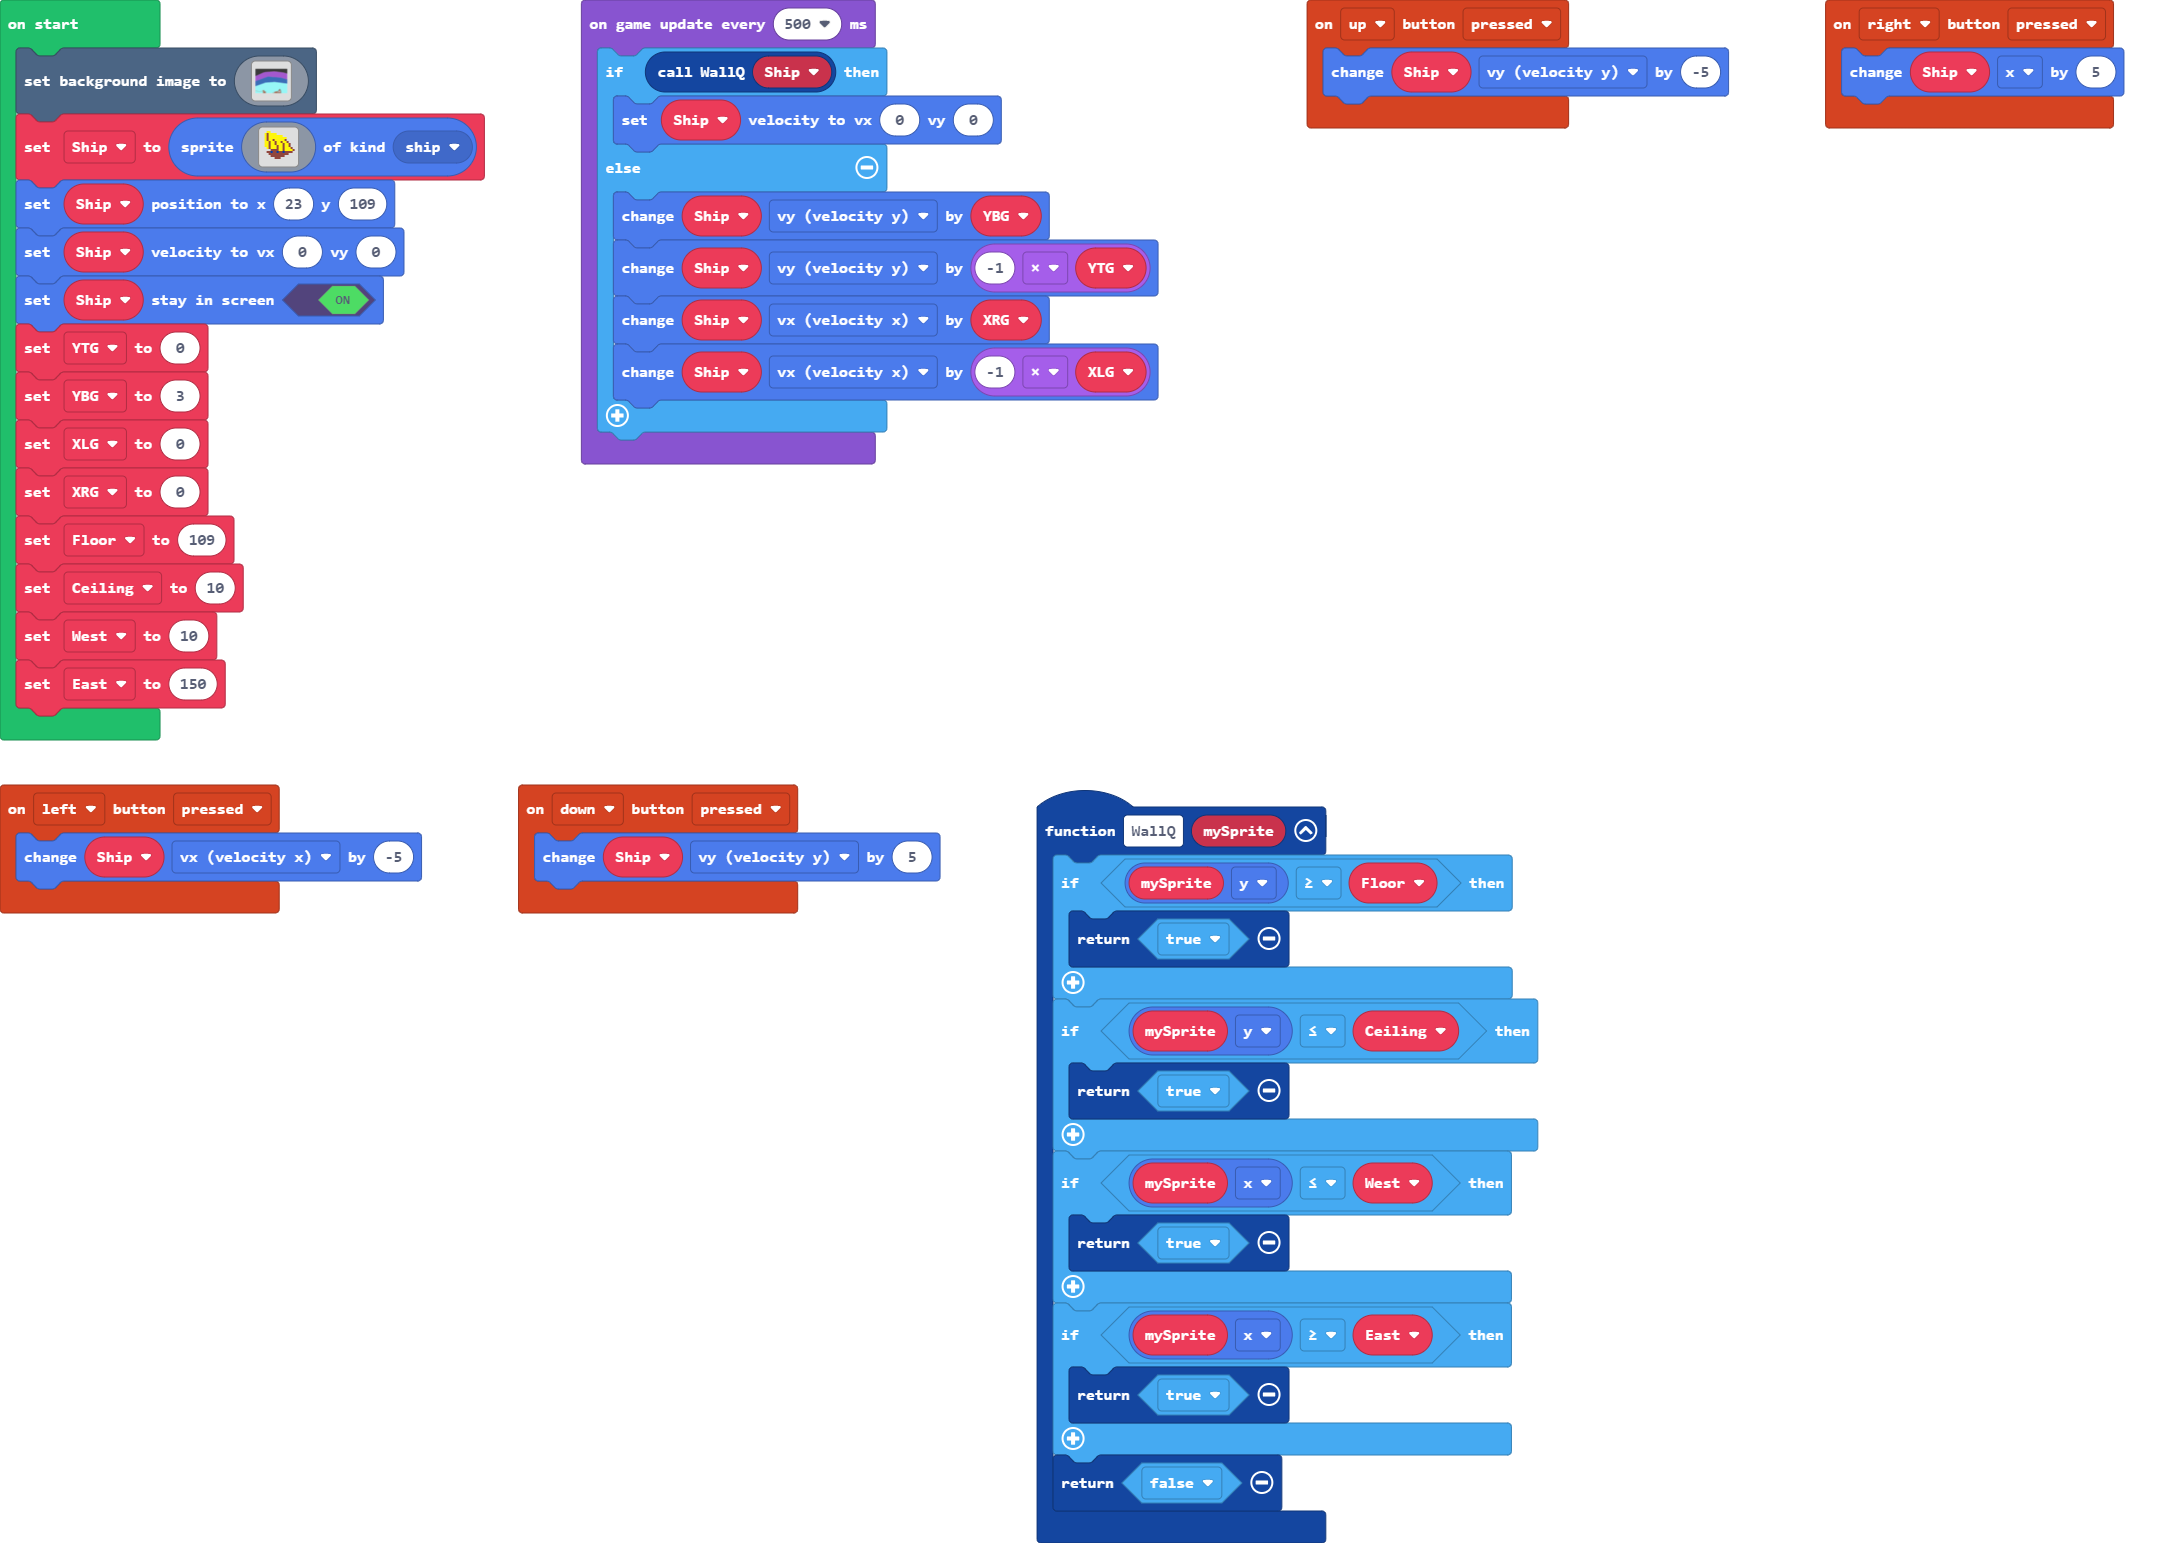
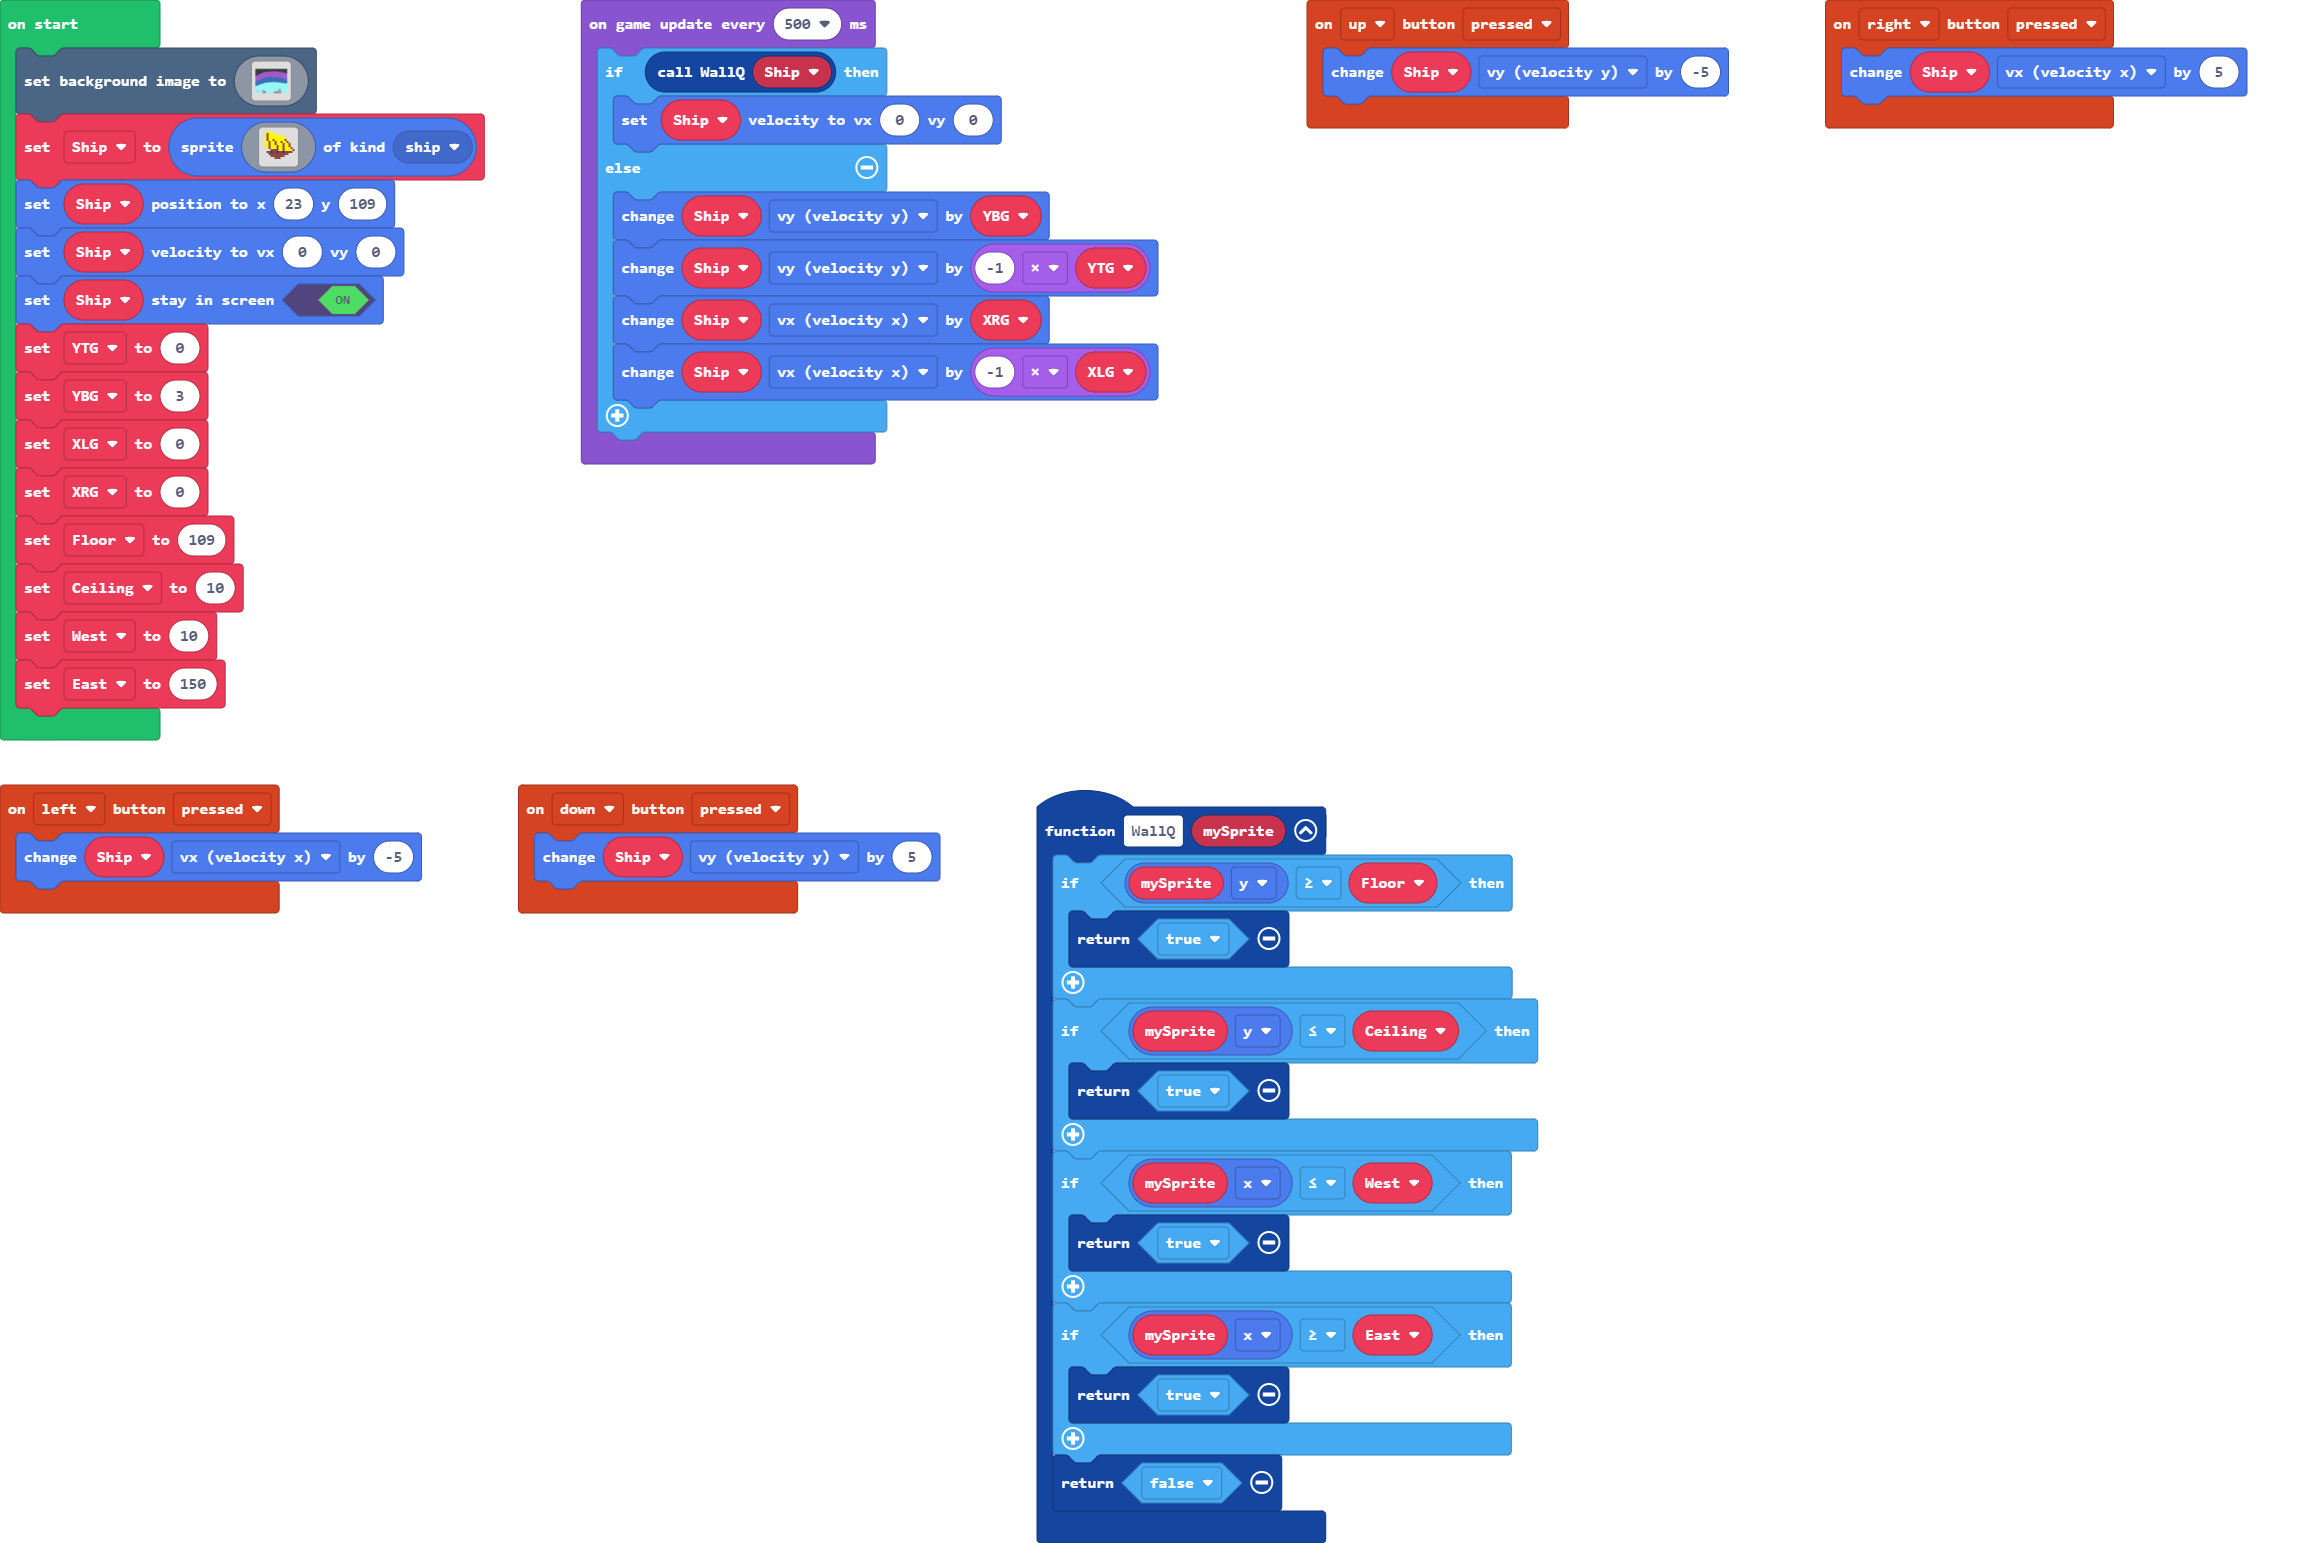
Update main.blocks, main.ts

Changed region(s): [[0.0, 0.4977, 0.7188, 1.0], [0.0, 0.0, 0.5312, 0.4666], [0.5625, 0.0, 1.0, 0.0933]]

diff --git a/main.ts b/main.ts
@@ -8,7 +8,7 @@ controller.left.onEvent(ControllerButtonEvent.Pressed, function () {
     Ship.vx += -5
 })
 controller.right.onEvent(ControllerButtonEvent.Pressed, function () {
-    Ship.x += 5
+    Ship.vx += 5
 })
 function WallQ (mySprite: Sprite) {
     if (mySprite.y >= Floor) {
@@ -38,22 +38,22 @@ scene.setBackgroundImage(img`
     ffffffffffffffffffffffffffffffffffffffffffffffffffffffffffffffffffffffffffffffffffffffffffffffffffffffffffffffffffffffffffffffffffffffffffffffffffffffffffffffff
     ffffffffffffffffffffffffffffffffffffffffffffffffffffffffffffffffffffffffffffffffffffffffffffffffffffffffffffffffffffffffffffffffffffffffffffffffffffffffffffffff
     ffffffffffffffffffffffffffffffffffffffffffffffffffffffffffffffffffffffffffffffffffffffffffffffffffffffffffffffffffffffffffffffffffffffffffffffffffffffffffffffff
[2 lines of base64/hex data omitted]
+    fffffffffffffffffffffffffffffffffffffffffffffffffffffffffffffffffffffffffffffffffffffffffffffffffffffffffffff1ffffffffffffffffffffffffffffffffffffffffffffffffff
     ffffffffffffffffffffffffffffffffffffffffffffffffffffffffffffffffffffffffffffffffffffffffffffffffffffffffffffffffffffffffffffffffffffffffffffffffffffffffffffffff
+    fffffffffffffffffffffffffffffffffffffffffffffffffffffffffffffffffffffffffffffffffffffffffffffffffffffffffffffffffffffffffffffffffff1ffffffffffffffffffffffffffff
     ffffffffffffffffffffffffffffffffffffffffffffffffffffffffffffffffffffffffffffffffffffffffffffffffffffffffffffffffffffffffffffffffffffffffffffffffffffffffffffffff
-    ffffffffffffffffffffffffffffffffffffffffffffffffffffffffffffffffffffffffffffffffffffffffffffffffffffffffffffffffffffffffffffffffffffffffffffffffffffffffffffffff
-    ffffffffffffffffffffffffffffffffffffffffffffffffffffffffffffffffffffffffffffffffffffffffffffffffffffffffffffffffffffffffffffffffffffffffffffffffffffffffffffffff
-    ffffffffffffffffffffffffffffffffffffffffffffffffffffffffffffffffffffffffffffffffffffffffffffffffffffffffffffffffffffffffffffffffffffffffffffffffffffffffffffffff
-    ffffffffffffffffffffffffffffffffffffffffffffffffffffffffffffffffffffffffffffffffffffffffffffffffffffffffffffffffffffffffffffffffffffffffffffffffffffffffffffffff
-    ffffffffffffffffffffffffffffffffffffffffffffffffffffffffffffffffffffffffffffffffffffffffffffffffffffffffffffffffffffffffffffffffffffffffffffffffffffffffffffffff
-    ffffffffffffffffffffffffffffffffffffffffffffffffffffffffffffffffffffffffffffffffffffffffffffffffffffffffffffffffffffffffffffffffffffffffffffffffffffffffffffffff
+    ffffffffffffffffffffffffffffffffffffffffffffffffffffffffffffffffffffffffffffffffffffffffffffffffffffffffffffffffffffffffffffffffffffffffff1fffffffffffffffffffff
[1 lines of base64/hex data omitted]
     fffffffffffffffffffffffffffffffffffffffffffffffffffffffffffffffffffffffffffffffffffffffaaaaaaaaaaaaaafffffffffffffffffffffffffffffffffffffffffffffffffffffffffff
     fffffffffffffffffffffffffffffffffffffffffffffffffffffffffffffffffffffffffffaaaaaaaaaaaaaaaaaaaaaaaaaaaaaaaaaaaffffffffffffffffffffffffffffffffffffffffffffffffff
-    fffffffffffffffffffffffffffffffffffffffffffffffffffffffffffffffaaaaaaaaaaaaaaaaaaaaaaaaaaaaaaaaaaaaaaaaaaaaaaaaaaaafffffffffffffffffffffffffffffffffffffffffffff
+    fffffffffffffffffffffffffffffffffffffffffffffffffffffffffffffffaaaaaaaaaaaaaaaaaaaaaaaaaaaaaaaaaaaaaaaaaaaaaaaaaaaafffffffffffffffffffff1fffffffffffffffffffffff
     fffffffffffffffffffffffffffffffffffffffffffffffffffaaaaaaaaaaaaaaaaaaaaaaaaaaaaaaaaaaaaaaaaaaaaaaaaaaaaaaaaaaaaaaaaaaaaaaaaaffffffffffffffffffffffffffffffffffff
     fffffffffffffffffffffffffffffffffffffffffffffaaaaaaaaaaaaaaaaaaaaaaaaaaaaaaaaaaaaaaaaaaaaaaaaaaaaaaaaaaaaaaaaaaaaaaaaaaaaaaaaaaaaaaaafffffffffffffffffffffffffff
     fffffffffffffffffffffffffffffffffffffffffaaaaaaaaaaaaaaaaaaaaaaaaaaaaaaaaaaaaaaaaaaaaaaaaaaaaaaaaaaaaaaaaaaaaaaaaaaaaaaaaaaaaaaaaaaaaaaaaaaaafffffffffffffffffff
-    fffffffffffffffffffffffffffffffffffffffaaaaaaaaaaaaaaaaaaaaaaaaaaaaaaaaaaaaaaaaaaaaaaaaaaaaaaaaaaaaaaaaaaaaaaaaaaaaaaaaaaaaaaaaaaaaaaaaaaaaaaaaaffffffffffffffff
-    fffffffffffffffffffffffffffffffffffffaaaaaaaaaaaaaaaaaaaaaaaaaaaaaaaaaaaaaaaaaaaaaaaaaaaaaaaaaaaaaaaaaaaaaaaaaaaaaaaaaaaaaaaaaaaaaaaaaaaaaaaaaaaaaafffffffffffff
+    fffffffffffffffffffffffffffffffffffffffaaaaaaaaaaaaaaa1aaaaaaaaaaaaaaaaaaaaaaaaaaaaaaaaaaaaaaaaaaaaaaaaaaaaaaaaaaaaaaaaaaaaaaaaaaaaaaaaaaaaaaaaaffffffffffffffff
[1 lines of base64/hex data omitted]
     fffffffffffffffffffffffffffffffffffaaaaaaaaaaaaaaaaaaaaaaaaaaaaaaaaaaaaaaaaaaaaaaaaaaaaaaaaaaaaaaaaaaaaaaaaaaaaaaaaaaaaaaaaaaaaaaaaaaaaaaaaaaaaaaaaaaaafffffffff
     ffffffffffffffffffffffffffffffffaaaaaaaaaaaaaaaaaaaaaaaaaaaaaaaaaaaaaaaaaaaaaaaaaaaaaaaaaaaaaaaaaaaaaaaaaaaaaaaaaaaaaaaaaaaaaaaaaaaaaaaaaaaaaaaaaaaaaaaaaaffffff
     ffffffffffffffffffffffffffffffaaaaaaaaaaaaaaaaaaaaaaaaaaaaaaaaaaaaaaaaaaaaaaaaaaaaaaaaaaaaaaaaaaaaaaaaaaaaaaaaaaaaaaaaaaaaaaaaaaaaaaaaaaaaaaaaaaaaaaaaaaaaaaafff
@@ -62,9 +62,9 @@ scene.setBackgroundImage(img`
     ffffffffffffffffffffffffaaaaaaaaaaaaaaaaaaaaaaaaaaaaaaaaaaaaaaaaaaaaaaaaaaaaaaaaaaaaaaaaaaaaaaaaaaaaaaaaaaaaaaaaaaaaaaaaaaaaaaaaaaaaaaaaaaaaaaaaaaaaaaaaaaaaaaaa
     fffffffffffffffffffffaaaaaaaaaaaaaaaaaaaaaaaaaaaaaaaaaaaaaaaaaaaaaaaaaaaaaaaaaaaaaaaaaaaaaaaaaaaaaaaaaaaaaaaaaaaaaaaaaaaaaaaaaaaaaaaaaaaaaaaaaaaaaaaaaaaaaaaaaaa
     fffffffffffffffffffaaaaaaaaaaaaaaaaaaaaaaaaaaaaaaaaaaaaaaaaaaaaaaaaaaaaaaaaaaaaaaaaaaaaaaaaaaaaaaaaaaaaaaaaaaaaaaaaaaaaaaaaaaaaaaaaaaaaaaaaaaaaaaaaaaaaaaaaaaaaa
-    fffffffffffffffffaaaaaaaaaaaaaaaaaaaaaaaaaaaaaaaaaaaaaaaaaaaaaaaaaaaaaaaaaaaaaaaaaaaaaaaaaaaaaaaaaaaaaaaaaaaaaaaaaaaaaaaaaaaaaaaaaaaaaaaaaaaaaaaaaaaaaaaaaaaaaaa
[1 lines of base64/hex data omitted]
     fffffffffffffffaaaaaaaaaaaaaaaaaaaaaaaaaaaaaaaaaaaaaaaaaaaaaaaaaaaaaaaaaaaaaaaaaaaaaaaaaaaaaaaaaaaaaaaaaaaaaaaaaaaaaaaaaaaaaaaaaaaaaaaaaaaaaaaaaaaaaaaaaaaaaaaaa
-    ffffffffffffaaaaaaaaaaaaaaaaaaaaaaaaaaaaaaaaaaaaaaaaaaaaaaaaaaaaaaaaaaaaaaaaaaaaaaaaaaaaaaaaaaaaaaaaaaaaaaaaaaaaaaaaaaaaaaaaaaaaaaaaaaaaaaaaaaaaaaaaaaaaaaaaaaaa
+    ffffffffffffaaaaaaaaaaaaaaaaaa1aaaaaaaaaaaaaaaaaaaaaaaaaaaaaaaaaaaaaaaaaaaaaaaaaaaaaaaaaaaaaaaaaaaaaaaaaaaaaaaaaaaaaaaaaaaaaaaaaaaaaaaaaaaaaaaaaaaaaaaaaaaaaaaaa
     ffffffffffaaaaaaaaaaaaaaaaaaaaaaaaaaaaaaaaaaaaaaaaaaaaaaaaaaaaaaaaaaaaaaaaaaaaaaaaaaaaaaaaaaaaaaaaaaaaaaaaaaaaaaaaaaaaaaaaaaaaaaaaaaaaaaaaaaaaaaaaaaaaaaaaaaaaaa
     ffffffffaaaaaaaaaaaaaaaaaaaaaaaaaaaaaaaaaaaaaaaaaaaaaaaaaaaaaaaaaaaaaaaaaaaaaaaaaaaaaaaaaaaaaaaaaaaaaaaaaaaaaaaaaaaaaaaaaaaaaaaaaaaaaaaaaaaaaaaaaaaaaaaaaaaaaaaa
     ffffffaaaaaaaaaaaaaaaaaaaaaaaaaaaaaaaaaaaaaaaaaaaaaaaaaaaaaaaaaaaaaaaaaaaaaaaaaaaaaaaaaaaaaaaaaaaaaaaaaaaaaaaaaaaaaaaaaaaaaaaaaaaaaaaaaaaaaaaaaaaaaaaaaaaaaaaaaa
